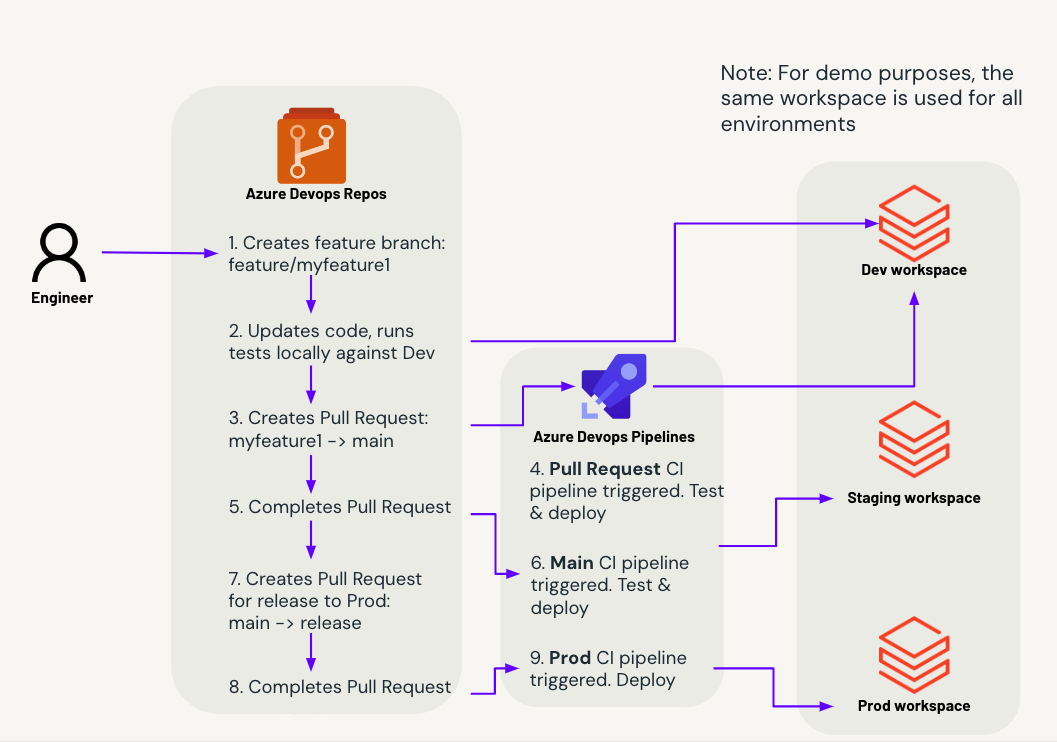
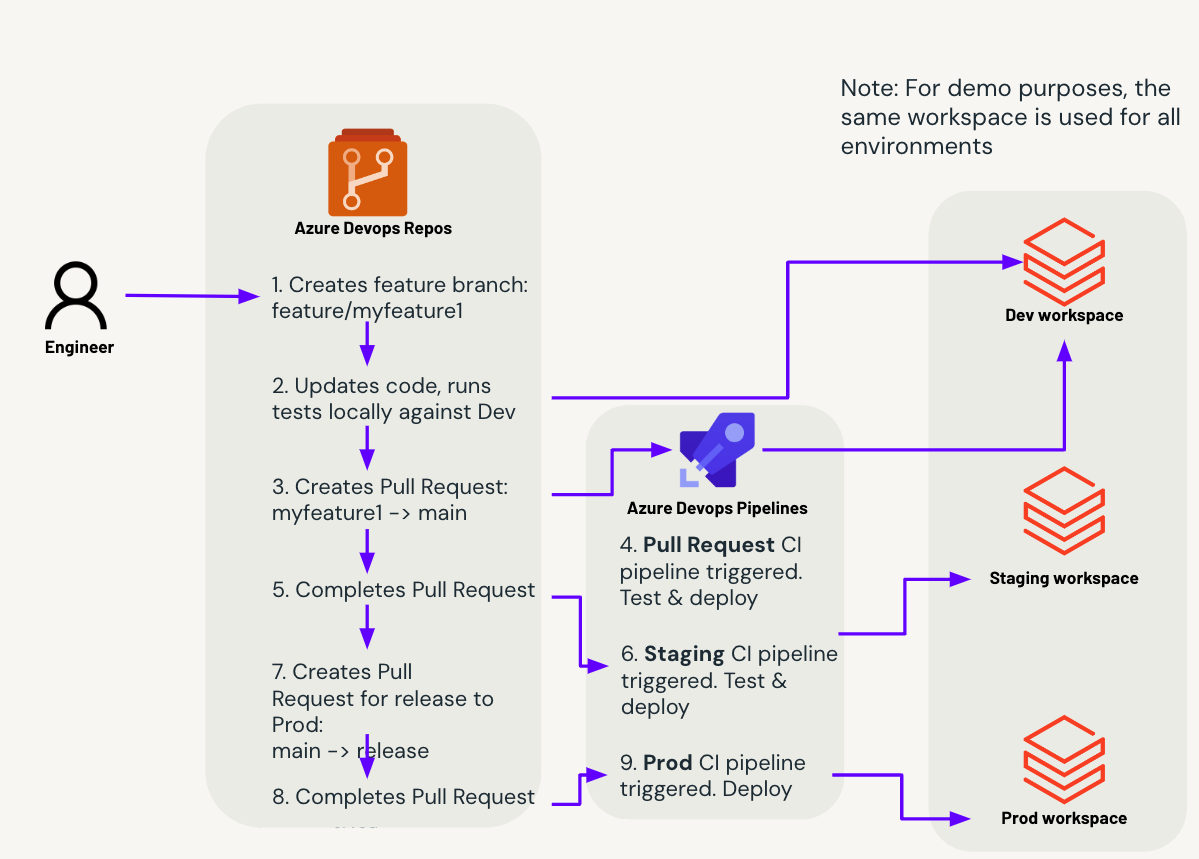
update readme

diff --git a/README.md b/README.md
@@ -23,7 +23,7 @@ Description:
 3. Once the feature is complete, the engineer creates a Pull Request in Azure Devops Repos
 4. Azure Devops Pipelines automatically triggers a run of the Pull Requests CI pipeline. This runs tests and deploys the Databricks Asset Bundle (DAB) to the development environment
 5. Once all automated checks have been completed and pull request has been approved, the engineer completes the pull request to merge the code into the main branch
-6. Azure Devops Pipelines automatically triggers a run of the Main CI pipeline. This tests the code again, but against the Staging environment, which likely has more realistic production data and config. It deploys the DAB to the environment
+6. Azure Devops Pipelines automatically triggers a run of the Staging CI pipeline. This tests the code again, but against the Staging environment, which likely has more realistic production data and config. It deploys the DAB to the environment
 7. (Optional) The engineer wants to release the code to the production environment, so creates a new Pull Request to merge all the code from the main branch into the release branch
 8. Once the Pull Request has been reviewed, it is completed and the code is merged into the release branch
 9. Azure Devopis Pipelines automatically triggers the Prod CI pipeline, deploying the DAB to production, this typically includes a scheduled trigger for the job to run at a given time
